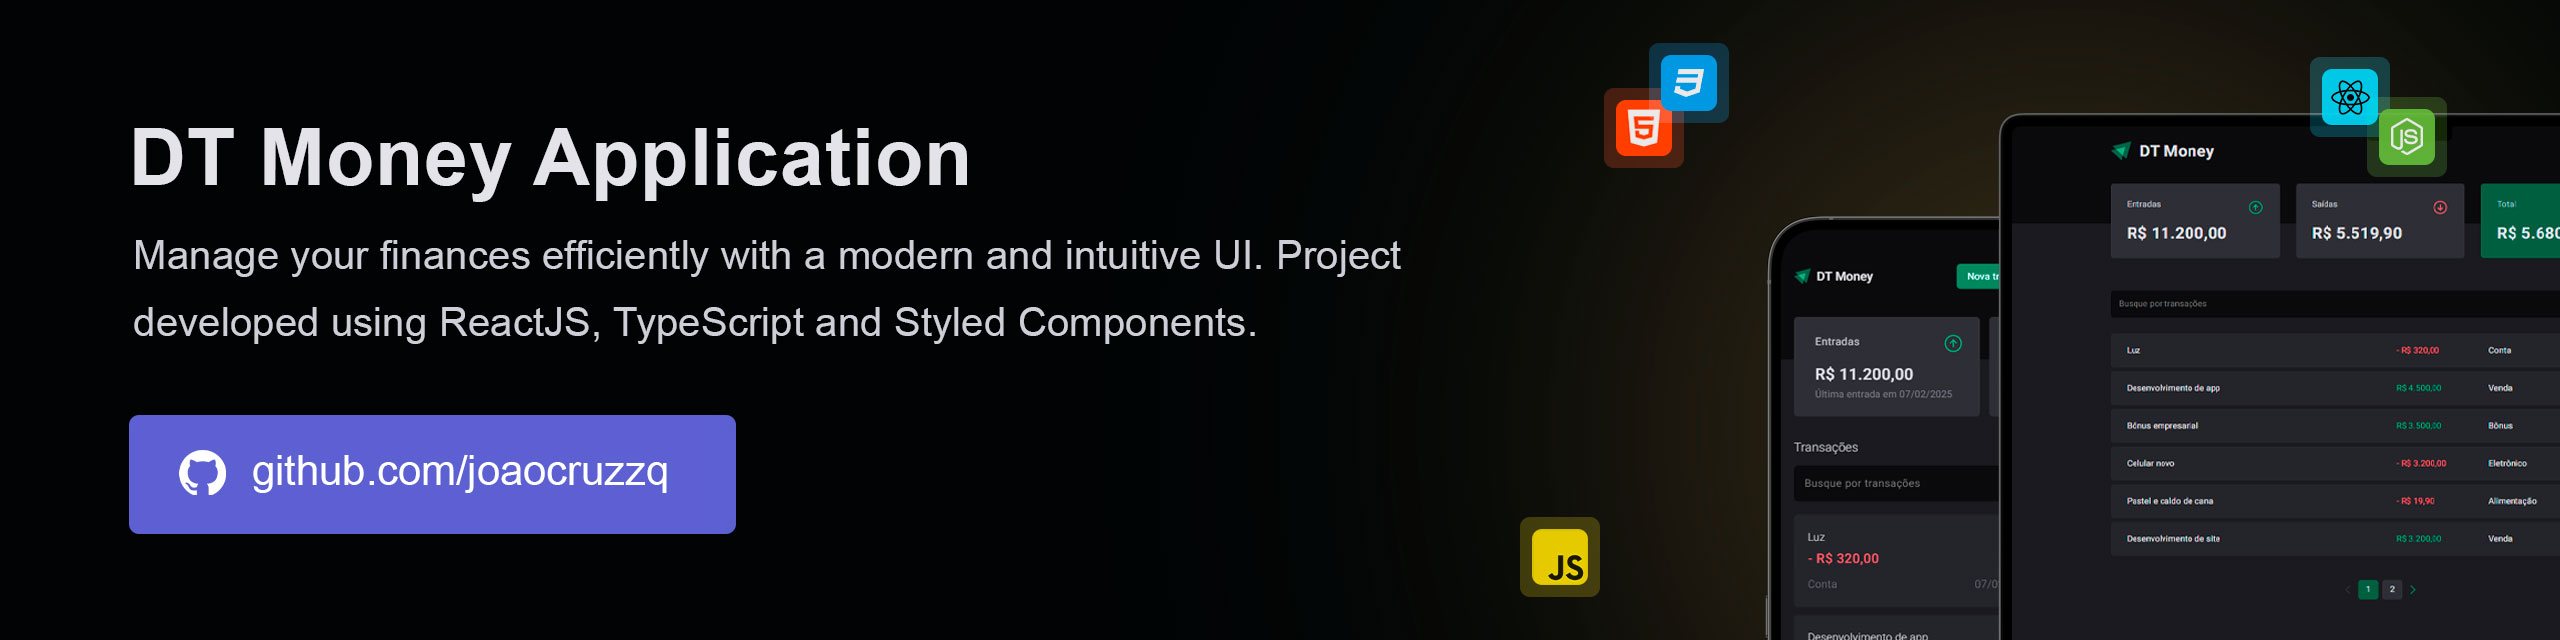
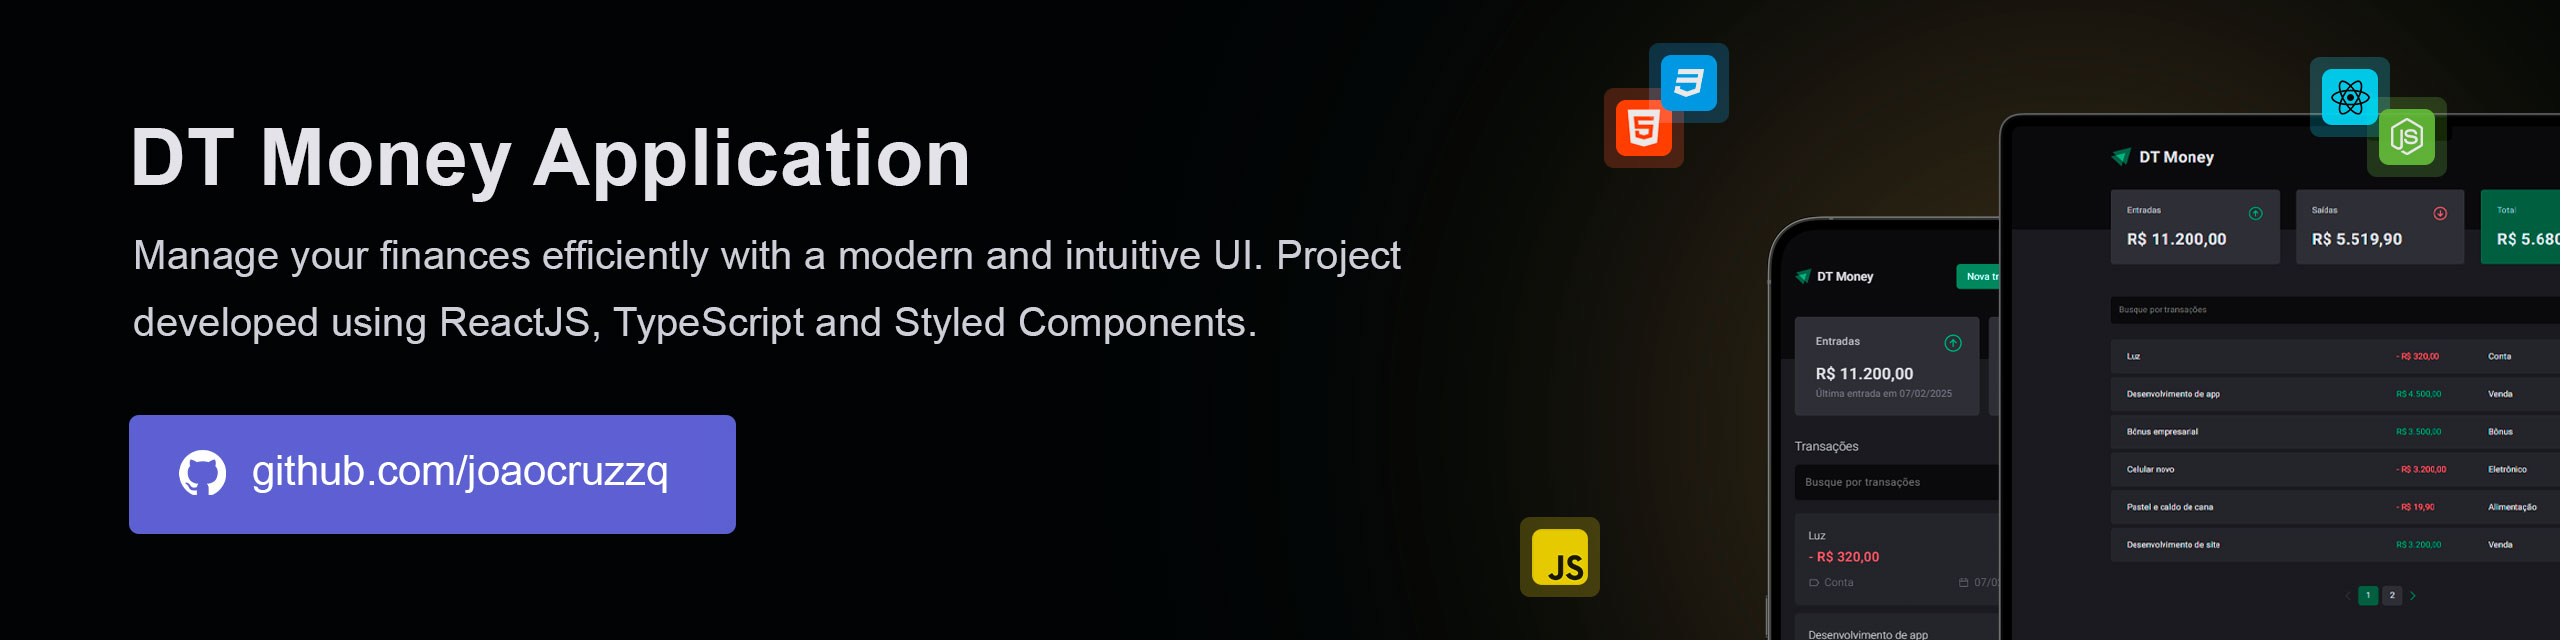
ajustando detalhes e update readme.md

diff --git a/src/pages/transactions/styles.ts b/src/pages/transactions/styles.ts
@@ -17,6 +17,10 @@ export const TransactionsContainer = styled.main`
       gap: 0.75rem;
       margin: 0.125rem 0;
 
+      .mobile-svg {
+         display: block;
+      }
+
       .mobile-title {
          display: flex;
          font-weight: 300;
